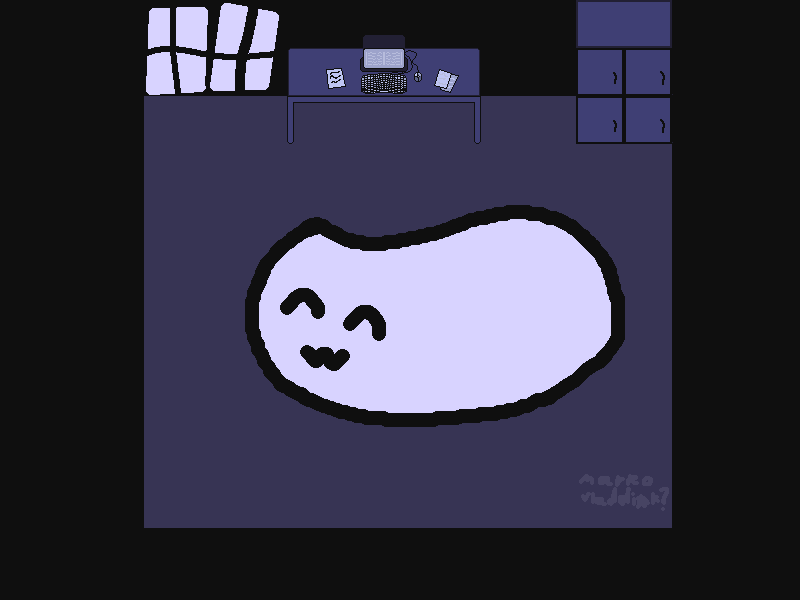
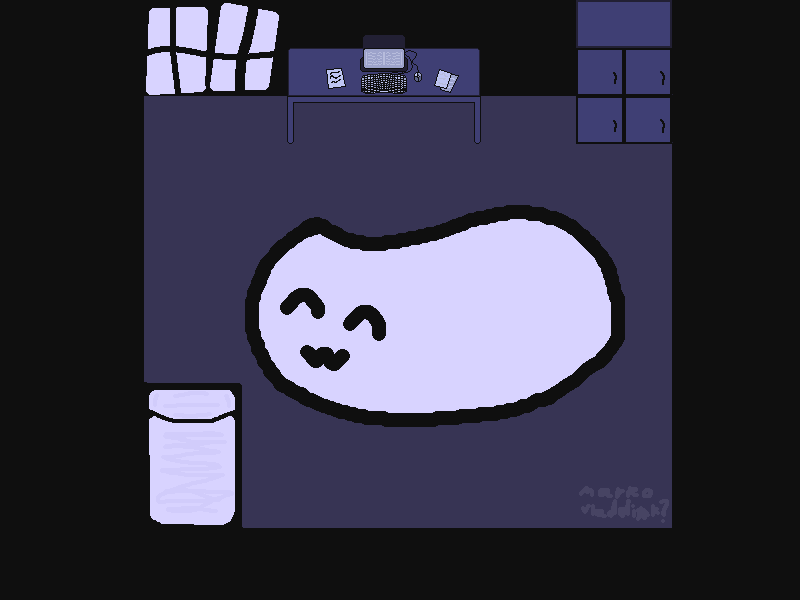
d1 updated

Changed region(s): [[0.1562, 0.63, 0.3125, 0.9]]

diff --git a/maps/d1.py b/maps/d1.py
@@ -37,7 +37,7 @@ class d1:
         )
 
         # Add collision blocks
-        self.collisionBlocks = [22, 25, 18, 50, 34, 66, 82, 114, 98, 130, 146, 162, 178, 179, 180, 181, 182, 183, 184, 185, 186, 187, 188, 189, 190, 46, 27, 28, 44, 45, 26, 62, 78, 110, 94, 126, 142, 158, 174, 38, 39, 41, 40, 21, 20, 19]
+        self.collisionBlocks = [22, 25, 18, 50, 34, 66, 82, 114, 98, 130, 146, 162, 178, 179, 180, 181, 182, 183, 184, 185, 186, 187, 188, 189, 190, 46, 27, 28, 44, 45, 26, 62, 78, 110, 94, 126, 142, 158, 174, 38, 39, 41, 40, 21, 20, 19, 131, 132, 148, 164]
 
         # Initialize dialogs
         self.firstpaper = Dialog(screen, [["It's just a piece of paper with my plans.", 'D', 'None', 'False', 'True'], ['Why am I even focusing on this?', 'D', 'None', 'False', 'True']], self.player)
@@ -49,6 +49,7 @@ class d1:
         self.sideTables = Dialog(screen, [["They're nightstands.", 'D', 'None', 'False', 'True'], ['I keep my things and neatly folded clothes in them.', 'D', 'None', 'False', 'True']], self.player)
         self.inscriptions = Dialog(screen, [["There's some writing here", ' ', 'None', 'False', 'True'], ['Here are the names of your friends', ' ', 'None', 'False', 'True'], ["The first name is Marco. The second name is illegible, but it's probably Vlad", ' ', 'None', 'False', 'True']], self.player)
         self.catCarpet = Dialog(screen, [["It's just a cute little cat-shaped rug.", ' ', 'None', 'False', 'True']], self.player)
+        self.bed = Dialog(screen, [["It's just my bed.", 'D', 'None', 'False', 'True']], self.player)
 
         # Run startup script
         # Initialize fade surfaces
@@ -144,6 +145,8 @@ class d1:
                             self.inscriptions.start_dialog()
                         if player_grid_index in [70, 86, 85, 101, 117, 118, 134, 135, 136, 137, 138, 139, 124, 108, 92, 75, 73, 74, 88, 87, 102, 103, 119, 120, 104, 89, 105, 90, 91, 107, 121, 106, 122, 123] and not self.catCarpet.is_active:
                             self.catCarpet.start_dialog()
+                        if player_grid_index in [115, 116, 133, 149, 165] and not self.bed.is_active:
+                            self.bed.start_dialog()
                         elif self.firstpaper.is_active:
                             if self.firstpaper.dialog_ended:
                                 self.firstpaper.current_index = 0
@@ -243,6 +246,17 @@ class d1:
                                 self.catCarpet.is_text_complete = False
                             else:
                                 self.catCarpet.next()
+                        elif self.bed.is_active:
+                            if self.bed.dialog_ended:
+                                self.bed.current_index = 0
+                                self.bed.dialog_ended = False
+                                self.bed.is_active = False
+                                self.bed.current_text = ""
+                                self.bed.display_text = ""
+                                self.bed.text_counter = 0
+                                self.bed.is_text_complete = False
+                            else:
+                                self.bed.next()
 
             self.screen.blit(self.bg_image, (0, 0))
             
@@ -273,6 +287,8 @@ class d1:
                 self.inscriptions.draw()
             if self.catCarpet.is_active:
                 self.catCarpet.draw()
+            if self.bed.is_active:
+                self.bed.draw()
 
             pygame.display.flip()
             #pygame.time.Clock().tick(60)
@@ -297,5 +313,6 @@ class d1:
             hasattr(self, "windows") and self.windows.is_active or
             hasattr(self, "sideTables") and self.sideTables.is_active or
             hasattr(self, "inscriptions") and self.inscriptions.is_active or
-            hasattr(self, "catCarpet") and self.catCarpet.is_active
+            hasattr(self, "catCarpet") and self.catCarpet.is_active or
+            hasattr(self, "bed") and self.bed.is_active
         ])
